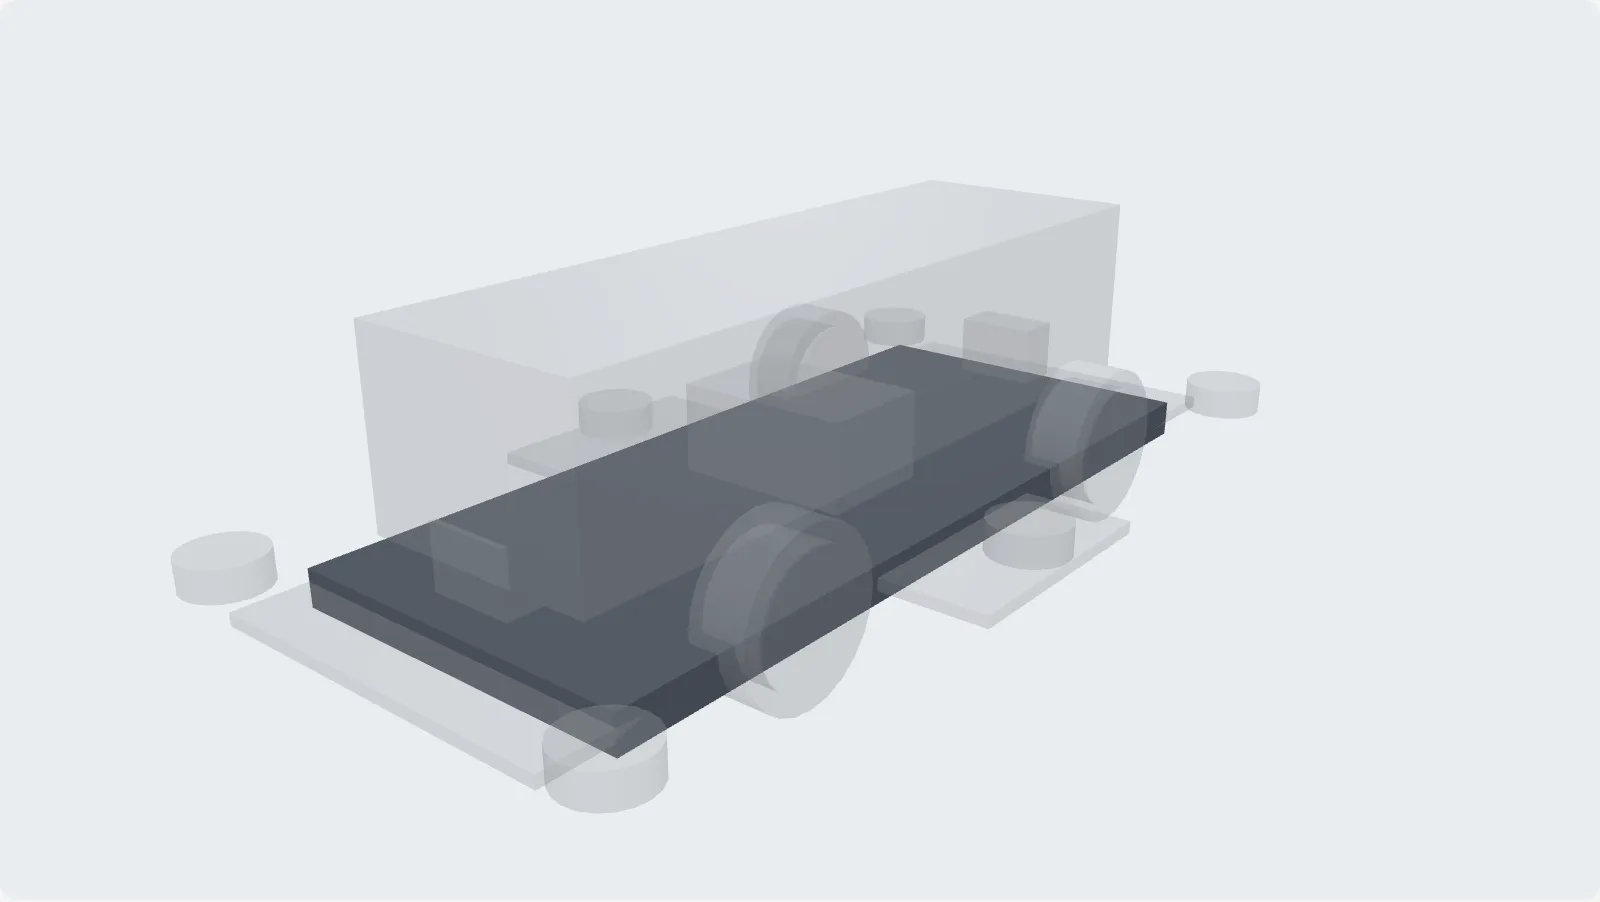
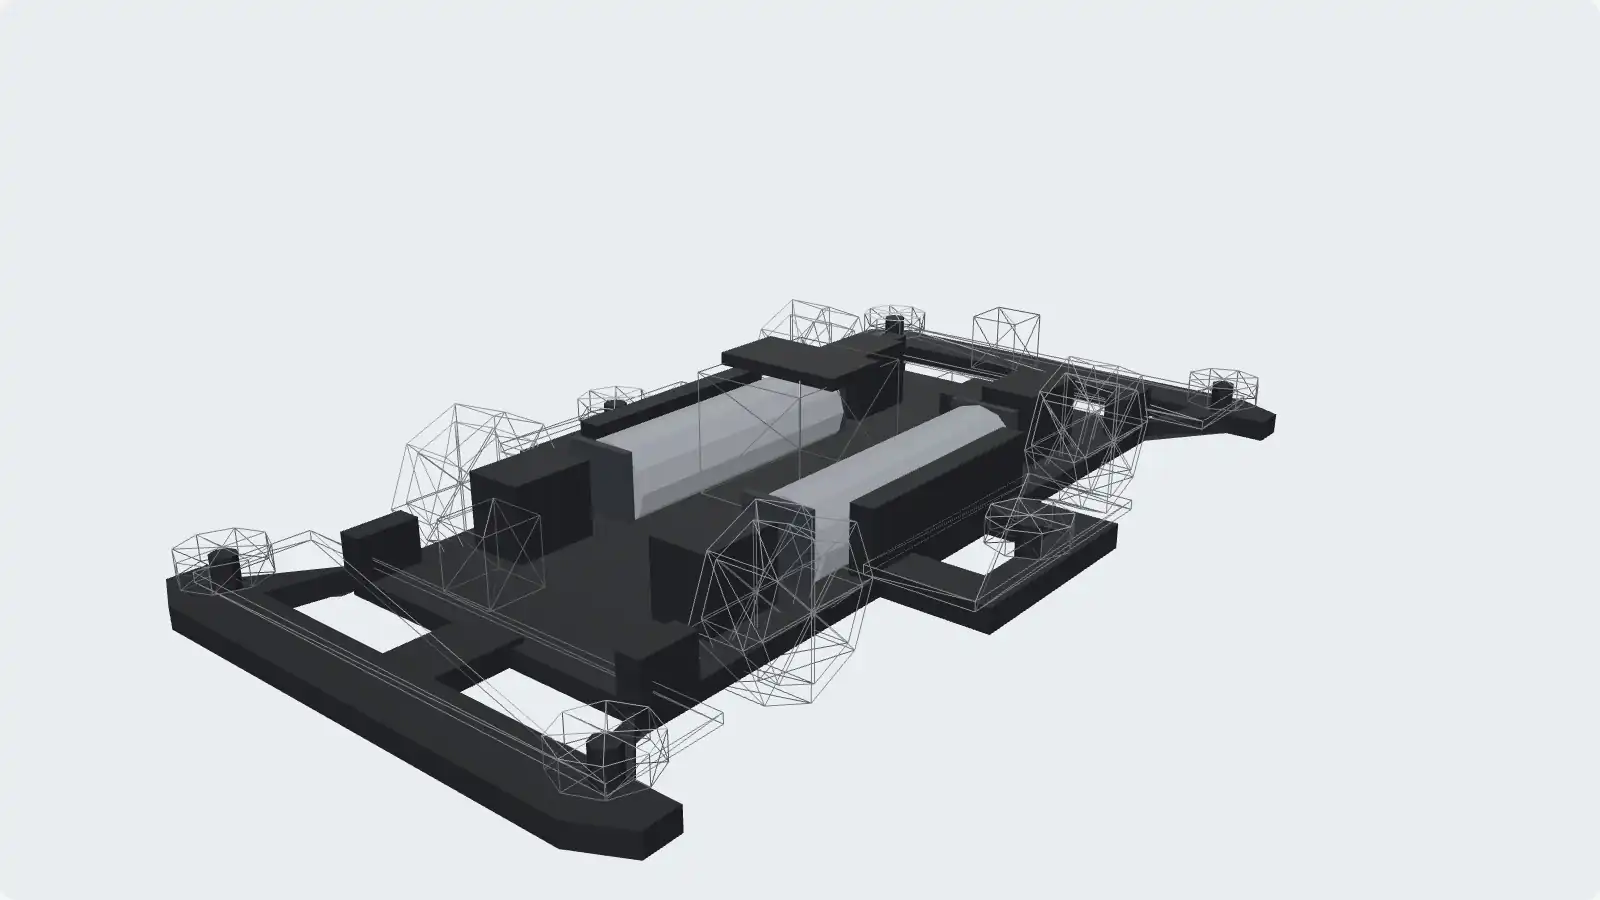
⚡ Recapture the posters from the generated pane, and draw nothing for an empty body

Changed region(s): [[0.0938, 0.2178, 0.8125, 0.9644]]

diff --git a/app/components/build/Scene.client.vue b/app/components/build/Scene.client.vue
@@ -90,7 +90,7 @@ const DEFAULT_PLATE_MM = 1.5
  * What an empty slot shows: the simplest outline of the shape that would go
  * there, drawn in wireframe. Simpler than the real shapes on purpose — a
  * wireframe of a 16-segment revolve is a tangle, an octagonal ring is a slot.
- * An empty body draws its loft in wireframe, which reads as a car outline.
+ * An empty body draws nothing (see `populate`).
  */
 const outlineBox = (w: number, h: number, d: number, y = 0) => {
   const t = new Triangles()
@@ -155,11 +155,9 @@ function diameterFor(kind: ProxyKind, slot: ResolvedSlot, bySlot: Map<string, Re
  * drawn. While the body was a translucent box (§5.5) a box-sized hit stole
  * taps aimed at the wheels behind it; now the shell is opaque, whatever the
  * reader sees under their finger is what they get, and lifting the shell is
- * how they reach what it covers. The entry here is only used for an empty
- * body slot, whose outline is drawn in wireframe.
+ * how they reach what it covers.
  */
-const HIT: Record<ProxyKind, (mm: number) => BufferGeometry> = {
-  body: () => new BoxGeometry(40, 10, 130).translate(0, 10, 0),
+const HIT: Record<Solid, (mm: number) => BufferGeometry> = {
   motor: () => new BoxGeometry(34, 19, 24),
   wheel: mm => new CylinderGeometry(mm / 2, mm / 2, 12, 16).rotateZ(Math.PI / 2),
   tire: mm => new CylinderGeometry(mm / 2 + 2, mm / 2 + 2, 9, 16).rotateZ(Math.PI / 2),
@@ -463,6 +461,11 @@ onMounted(() => {
       if (!group || !slot) continue
       group.clear()
       const state: ProxyState = !slot.entries.length ? 'empty' : slot.swapped ? 'changed' : 'stock'
+      // An empty body slot draws nothing: a tap on the shell only lifts it and
+      // the body is chosen from the list, so there is no target to outline,
+      // and a wireframe loft over the whole car was the one outline that read
+      // as a tangle rather than a slot.
+      if (socket.kind === 'body' && state === 'empty') continue
       const mm = diameterFor(socket.kind, slot, bySlot)
       const shape: Shape = {
         mm,
@@ -480,7 +483,7 @@ onMounted(() => {
       visible.userData = data
       proxies.push(visible)
       // The shell is its own hit volume; everything else gets an oversized one.
-      if (socket.kind === 'body' && state !== 'empty') {
+      if (socket.kind === 'body') {
         group.add(visible)
         hits.push(visible)
       } else {
@@ -519,9 +522,7 @@ onMounted(() => {
     )
     raycaster.setFromCamera(pointer, camera)
     const along = raycaster.intersectObjects(hits, false).map(hit => hit.object.userData as ProxyData)
-    // Nearest wins, except that an empty body — a wireframe — loses to
-    // whatever is seen through it.
-    return along.find(data => data.kind !== 'body' || data.state !== 'empty') ?? along[0] ?? null
+    return along[0] ?? null
   }
 
   let down: { x: number; y: number } | null = null

diff --git a/docs/PLAN.md b/docs/PLAN.md
@@ -521,7 +521,7 @@ The owner's read of the first cut, from a top view: the translucent shell and th
 - **An empty slot is an outline, not a ghost.** Empties draw in wireframe, from a separate table of deliberately simple shapes — a box for a plate, an octagonal ring for a roller — because a wireframe of the real 16-segment revolve is a tangle. Edge-only outlines (`EdgesGeometry` and the line renderer) were measured at 8 KB gz and not taken.
 - **Eight chassis is a bounded job, so each gets real detail.** MA is now a tub with side walls and wheel arches, the two AA cells lying either side of the motor with their terminal plates, gear housings at each axle, bumpers built as a crossbar, two arms and a centre rib so the real cut-outs show, roller posts, slotted side guards, the switch and the motor cover clip — about 680 triangles, all from the same box/prism/revolve helper. The review pass on this cut found that a naive sweep of a capped profile emits half its triangles with zero area (the axis points became rings of coincident vertices), so `revolve` now fans an axis point as an apex: a third fewer triangles scene-wide with no visual change. The same pass caught the render tick scheduling two frames per frame whenever the shell animated while the camera was still coasting, because the controls' change event and the lift each requested one; both go through the guarded request now. It reads as an MA from underneath and with the shell lifted, which is what the owner asked the top view to do.
 
-The 3D chunk is 141 KB gz after all of it. Not done: the poster images under `public/images/scene-poster-*.webp` still show the box car and need re-capturing once the shapes settle; the other 68 MA kits have no silhouette yet and draw the default wedge; a real thumb has still not tried the shell tap on a phone.
+The 3D chunk is 141 KB gz after all of it. **The posters were re-captured** from the built pane at the home view (the canvas element screenshotted at 2× and encoded at WebP quality 50: 32 KB for 16:9 and 13 KB for 4:3, up from 11 and 5 because wireframe outlines compress worse than flat boxes). Doing that showed what the empty car looks like as a first sight, and settled one more thing: **an empty body slot draws nothing.** A tap on the shell only lifts it and the body is chosen from its row, so there is no target to outline, and a wireframe loft over the whole car was the one outline that read as a tangle rather than a slot. Not done: the other 68 MA kits have no silhouette yet and draw the default wedge; a real thumb has still not tried the shell tap on a phone.
 
 **The chassis is the one open item.** It is the plan's Blender asset and the only one where socket positions have to be true, but its reference is also photos. Decide once the parts look right against the tray: a raised centre tunnel and bumper bars from primitives may be enough for M1, and if not, a headless `bpy` script exports the MA GLB with its slot-named empties and replaces `sockets.ts` as §5.5 already describes.
 
